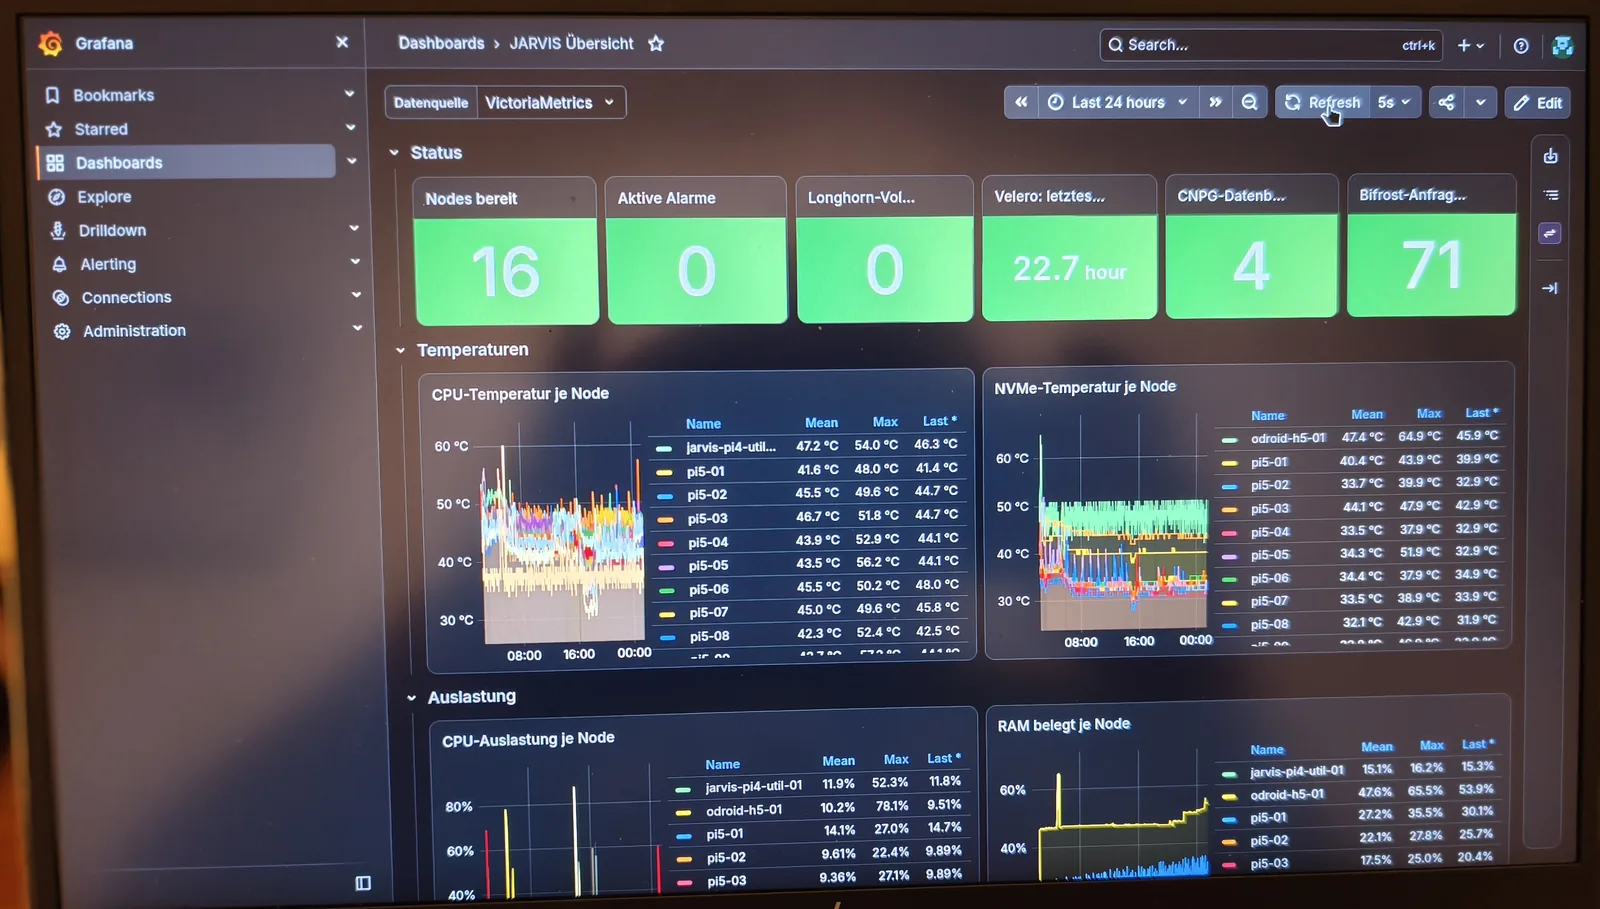
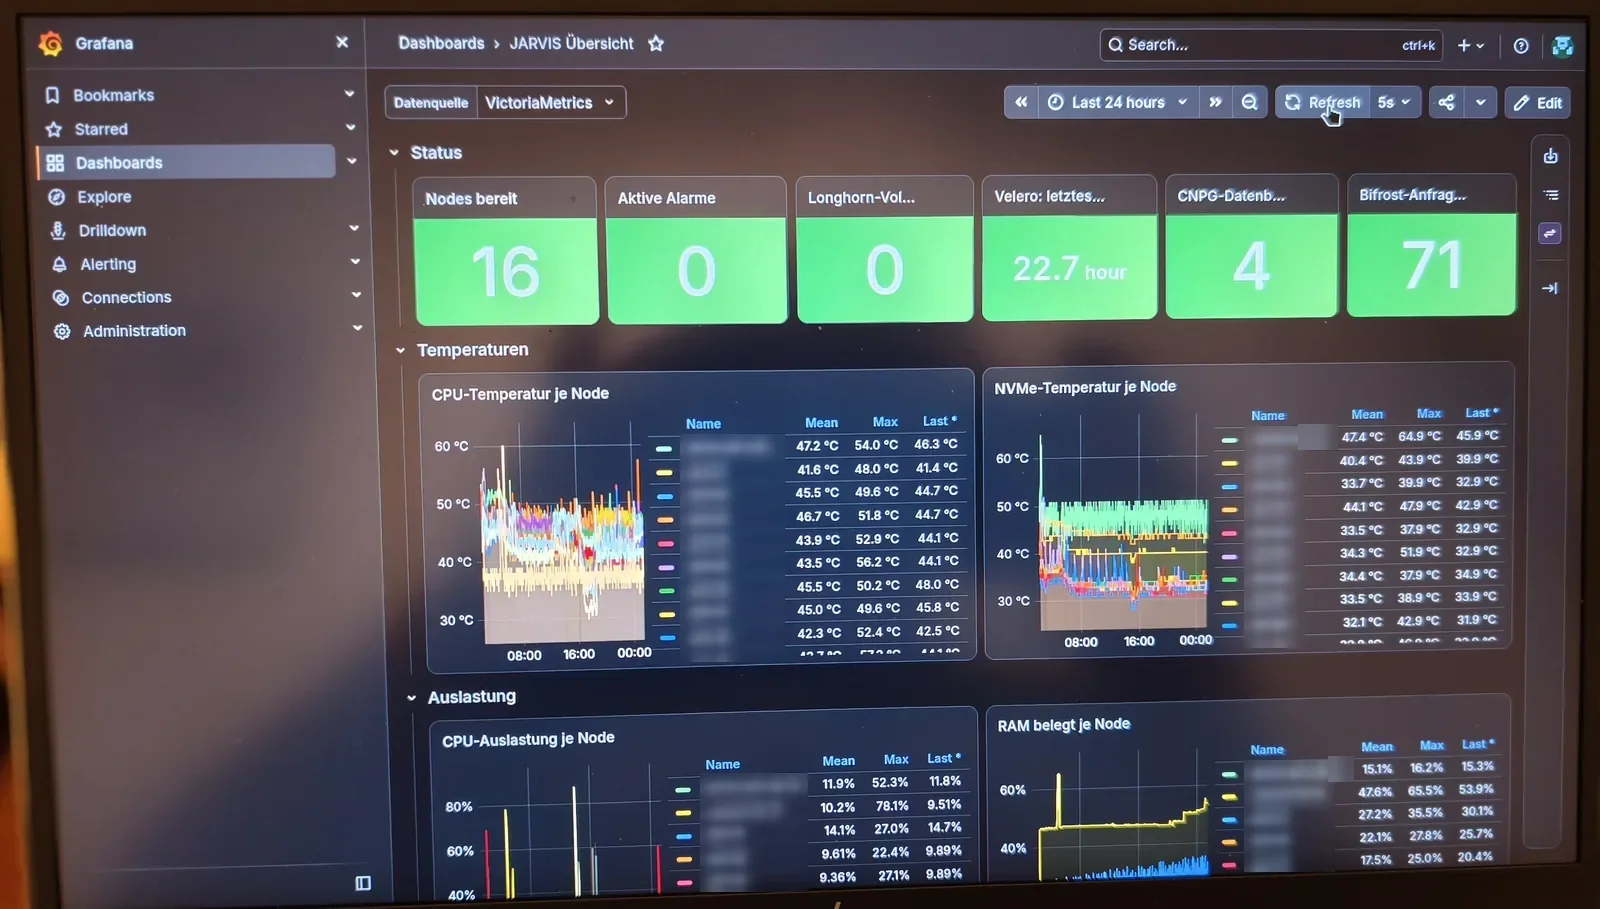
Pixelate hostnames in remaining screenshots; neutral node labels
- Progress HUD photo: node names, warmest node/NVMe and GPU host label
  pixelated, matching the new kiosk screenshot
- Grafana photo: node names in all four legends pixelated
- Simulated live HUD: neutral labels N01-N17 instead of real hostnames;
  terminal tag renamed to gpu-tier

Claude-Session: https://claude.ai/code/session_01M4YmYitLHZQZaxL3iS2pSH

diff --git a/src/components/landing/JarvisConsole.tsx b/src/components/landing/JarvisConsole.tsx
@@ -15,13 +15,16 @@ interface NodeDef {
   nvme: boolean;
 }
 
-/** 17 Kubernetes nodes as on the real HUD; the Pi Zero watchdog sits outside. */
-const NODES: NodeDef[] = [
-  { name: "pi4-util", nvme: false },
-  { name: "odroid", nvme: true },
-  ...Array.from({ length: 14 }, (_, i) => ({ name: `pi5-${String(i + 1).padStart(2, "0")}`, nvme: i < 10 })),
-  { name: "z840-01", nvme: false },
-];
+/**
+ * 17 Kubernetes nodes as on the real HUD (the Pi Zero watchdog sits
+ * outside). Labels are neutral on purpose: real hostnames stay private,
+ * just as they are pixelated in the screenshots. Order and NVMe layout
+ * mirror the real cluster: utility node, CPU reserve, 14 Pi 5, GPU last.
+ */
+const NODES: NodeDef[] = Array.from({ length: 17 }, (_, i) => ({
+  name: `N${String(i + 1).padStart(2, "0")}`,
+  nvme: i === 1 || (i >= 2 && i < 12),
+}));
 
 interface Sample {
   temp: number;

diff --git a/src/components/landing/LiveTerminal.tsx b/src/components/landing/LiveTerminal.tsx
@@ -22,7 +22,7 @@ const EVENTS: { tag: string; msg: string }[] = [
   { tag: "kured", msg: "no reboot required · kernel current" },
   { tag: "promptfoo", msg: "weekly model eval · 32/32 passed" },
   { tag: "power", msg: "cluster draw 196 W (measured)" },
-  { tag: "z840", msg: "room empty · gpu idle → night shutdown, wol armed" },
+  { tag: "gpu-tier", msg: "room empty · gpu idle → night shutdown, wol armed" },
 ];
 
 const MAX_LINES = 6;
